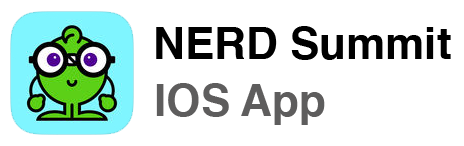
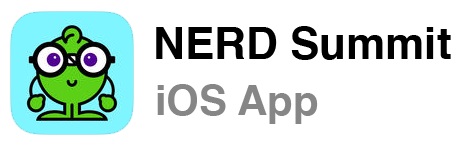
added link to app

Changed region(s): [[0.3319, 0.5479, 0.7241, 0.8767]]

diff --git a/index.html b/index.html
@@ -51,8 +51,8 @@
       <div class="vertical-spacer"></div>
       <a class="button donate-submit" href="https://www.razoo.com/organization/Nerd">Donate to NERD</a>
       <h4 class="pink-text">Your donations to NERD help fund ongoing efforts such as monthly developer group meetings.</h4>
-      <img src="images/app.png" class="app">
-      <p>Look for the app on the IOS App Store, thanks to Lou Franco. </p>
+      <a href="https://itunes.apple.com/us/app/nerd-summit/id1210377935?mt=8"><img src="images/app.png" class="app"></a>
+      <p>Look for the app <a href="https://itunes.apple.com/us/app/nerd-summit/id1210377935?mt=8">on the iOS App Store</a>, thanks to Lou Franco. </p>
     </div>
   </div>
 
@@ -144,8 +144,8 @@
 
       <h4>Session schedule may change, so come back later to check for updates.</h4>
       <p>Last updated March 9, 2018.</p>
-      <img src="images/app.png" class="appsmall">
-      <p>Look for the app on the IOS App Store, thanks to Lou Franco. </p>
+      <a href="https://itunes.apple.com/us/app/nerd-summit/id1210377935?mt=8"><img src="images/app.png" class="appsmall"></a>
+      <p>Look for the app <a href="https://itunes.apple.com/us/app/nerd-summit/id1210377935?mt=8">on the iOS App Store</a>, thanks to Lou Franco. </p>
       <br>
 
       <!--THIS IS WHERE THE TIMESLOTS WITH SESSIONS GO-->
